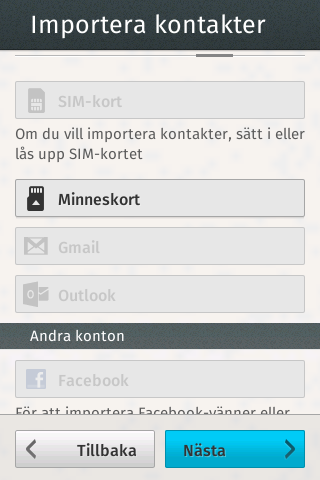
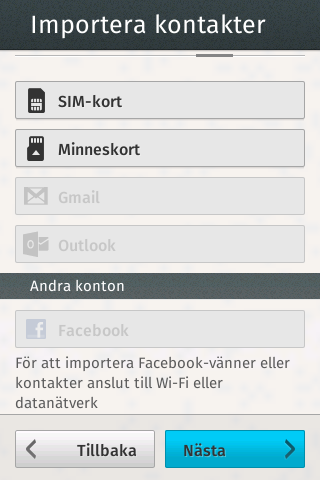
Update (sv-SE updated by hg repo)

Changed region(s): [[0.0, 0.1562, 1.0, 0.875], [0.6562, 0.8438, 0.7812, 0.875], [0.8125, 0.8438, 0.9062, 0.875]]

diff --git a/apps_communications_ftu_sv-SE.html b/apps_communications_ftu_sv-SE.html
@@ -268,7 +268,7 @@
           <td class='diff'>
           </td>
         </tr>
-        <tr class='changed'>
+        <tr class='ok'>
           <td class='id'>date_and_time</td>
           <td class='new'>
             <a href='screenshots/sv-SE/apps/communications/ftu/date_and_time.jpeg'>
@@ -281,9 +281,6 @@
             </a>
           </td>
           <td class='diff'>
-            <a href='screenshots/sv-SE/apps/communications/ftu/date_and_time.diff.jpeg'>
-              <img src='screenshots/sv-SE/apps/communications/ftu/date_and_time.diff.jpeg'/>
-            </a>
           </td>
         </tr>
         <tr class='ok'>
@@ -316,7 +313,7 @@
           <td class='diff'>
           </td>
         </tr>
-        <tr class='ok'>
+        <tr class='changed'>
           <td class='id'>import_contacts</td>
           <td class='new'>
             <a href='screenshots/sv-SE/apps/communications/ftu/import_contacts.jpeg'>
@@ -329,6 +326,9 @@
             </a>
           </td>
           <td class='diff'>
+            <a href='screenshots/sv-SE/apps/communications/ftu/import_contacts.diff.jpeg'>
+              <img src='screenshots/sv-SE/apps/communications/ftu/import_contacts.diff.jpeg'/>
+            </a>
           </td>
         </tr>
         <tr class='ok'>
